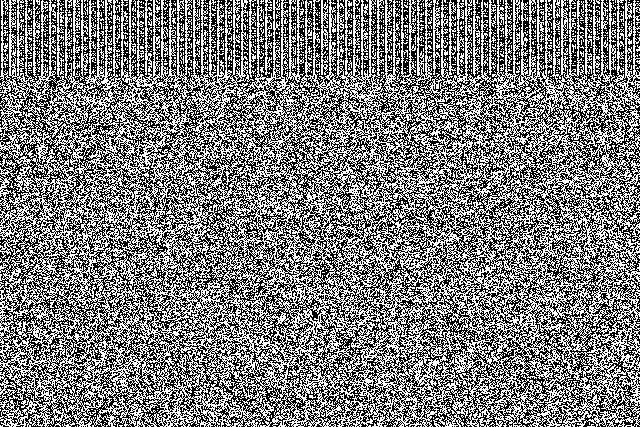
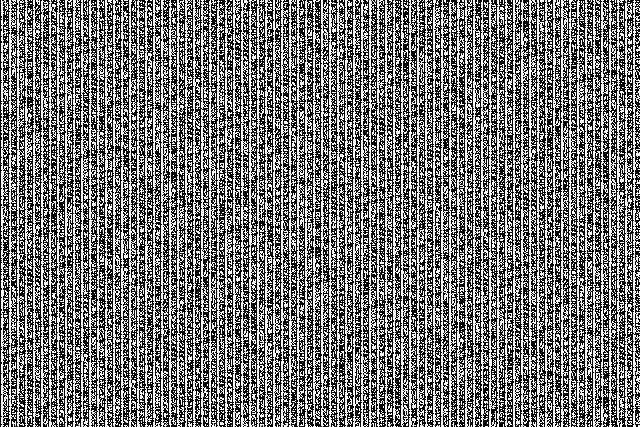
Steganalyse Histogramm Angriff

diff --git a/Steganalyse/encode.py b/Steganalyse/encode.py
@@ -18,13 +18,13 @@ def text_to_binary(text):
     return result
 
 
-img = Image.open("panther.jpg")
+img = Image.open("katze_gs.png")
 img = img.convert('L')
 width, height = img.size
 pixel_map = img.load()
-text = "Mailand oder Madrid, hauptsache Italien."
-#text = "Lorem ipsum dolor sit amet, consetetur sadipscing elitr, sed diam nonumy eirmod tempor invidunt ut labore et dolore magna aliquyam erat, sed diam voluptua. At vero eos et accusam et justo duo dolores et ea rebum. Stet clita kasd gubergren, no sea takimata sanctus est Lorem ipsum dolor sit amet. Lorem ipsum dolor sit amet, consetetur sadipscing elitr, sed diam nonumy eirmod tempor invidunt ut labore et dolore magna aliquyam erat, sed diam voluptua. At vero eos et accusam et justo duo dolores et ea rebum. Stet clita kasd gubergren, no sea takimata sanctus est Lorem ipsum dolor sit amet. Lorem ipsum dolor sit amet, consetetur sadipscing elitr, sed diam nonumy eirmod tempor invidunt ut labore et dolore magna aliquyam erat, sed diam voluptua. At vero eos et accusam et justo duo dolores et ea rebum. Stet clita kasd gubergren, no sea takimata sanctus est Lorem ipsum dolor sit amet. Duis autem vel eum iriure dolor in hendrerit in vulputate velit esse molestie consequat, vel illum dolore eu feugiat nulla facilisis at vero eros et accumsan et iusto odio dignissim qui blandit praesent luptatum zzril delenit augue duis dolore te feugait nulla facilisi. Lorem ipsum dolor sit amet, consectetuer adipiscing elit, sed diam nonummy nibh euismod tincidunt ut laoreet dolore magna aliquam erat volutpat. Ut wisi enim ad minim veniam, quis nostrud exerci tation ullamcorper suscipit lobortis nisl ut aliquip ex ea commodo consequat. Duis autem vel eum iriure dolor in hendrerit in vulputate velit esse molestie consequat, vel illum dolore eu feugiat nulla facilisis at vero eros et accumsan et iusto odio dignissim qui blandit praesent luptatum zzril delenit augue duis dolore te feugait nulla facilisi. Nam liber tempor cum soluta nobis eleifend option congue nihil imperdiet doming id quod mazim placerat facer possim assum. Lorem ipsum dolor sit amet, consectetuer adipiscing elit, sed diam nonummy nibh euismod tincidunt ut laoreet dolore magna aliquam erat volutpat. Ut wisi enim ad minim veniam, quis nostrud exerci tation ullamcorper suscipit lobortis nisl ut aliquip ex ea commodo consequat.   Duis autem vel eum iriure dolor in hendrerit in vulputte velit esse molestie consequat, vel illum dolore eu feugiat nulla facilisis. At vero eos et accusam et justo duo dolores et ea rebum. Stet clita kasd gubergren, no sea takimata sanctus est Lorem ipsum dolor sit amet. Lorem ipsum dolor sit amet, consetetur sadipscing elitr, sed diam nonumy eirmod tempor invidunt ut labore et dolore magna aliquyam erat, sed diam voluptua. At vero eos et accusam et justo duo dolores et ea rebum. Stet clita kasd gubergren, no sea takimata sanctus est Lorem ipsum dolor sit amet. Lorem ipsum dolor sit amet, consetetur sadipscing elitr, At accusam aliquyam diam diam dolore dolores duo eirmod eos erat, et nonumy sed tempor et et invidunt justo labore Stet clita ea et gubergren, kasd magna no rebum. sanctus sea sed takimata ut vero voluptua. est Lorem ipsum dolor sit amet. Lorem ipsum dolor sit amet, consetetur sadipscing elitr, sed diam nonumy eirmod tempor invidunt ut labore et dolore magna aliquyam erat. Consetetur sadipscing elitr, sed diam nonumy eirmod tempor invidunt ut labore et dolore magna aliquyam erat, sed diam voluptua. At vero eos et accusam et justo duo dolores et ea rebum. Stet clita kasd gubergren, no sea takimata sanctus est Lorem ipsum dolor sit amet. Lorem ipsum dolor sit amet, consetetur sadipscing elitr, sed diam nonumy eirmod tempor invidunt ut labore et dolore magna aliquyam erat, sed diam voluptua. At vero eos et accusam et justo duo dolores et ea rebum. Stet clita kasd gubergren, no sea takimata sanctus est Lorem ipsum dolor sit amet. Lorem ipsum dolor sit amet, consetetur sadipscing elitr, sed diam nonumy eirmod tempor invidunt ut labore et dolore magna aliquyam erat, sed diam voluptua. At vero eos et accusam et justo duo dolores et ea rebum. Stet clita kasd gubergren, no sea takimata sanctus. Lorem ipsum dolor sit amet, consetetur sadipscing elitr, sed diam nonumy eirmod tempor invidunt ut labore et dolore magna aliquyam erat, sed diam voluptua. At vero eos et accusam et justo duo dolores et ea rebum. Stet clita kasd gubergren, no sea takimata sanctus est Lorem ipsum dolor sit amet. Lorem ipsum dolor sit amet, consetetur sadipscing elitr, sed diam nonumy eirmod tempor invidunt ut labore et dolore magna aliquyam erat, sed diam voluptua. At vero eos et accusam et justo duo dolores et ea rebum. Stet clita kasd gubergren, no sea takimata sanctus est Lorem ipsum dolor sit amet. Lorem ipsum dolor sit amet, consetetur sadipscing elitr, sed diam nonumy eirmod tempor invidunt ut labore et dolore magna aliquyam erat, sed diam voluptua. At vero eos et accusam et justo duo dolores et ea rebum. Stet clita kasd gubergren, no sea takimata sanctus est Lorem ipsum dolor sit amet. Duis autem vel eum iriure dolor in hendrerit in vulputate velit esse molestie consequat, vel illum dolore eu feugiat nulla facilisis at vero eros et accumsan et iusto odio dignissim qui blandit praesent luptatum zzril delenit augue duis dolore te feugait nulla facilisi. Lorem ipsum dolor sit amet, consectetuer adipiscing elit, sed diam nonummy nibh euismod tincidunt ut laoreet dolore magna aliquam erat volutpat.Ut wisi enim ad minim veniam, quis nostrud exerci tation ullamcorper suscipit lobortis nisl ut aliquip ex ea commodo consequat. Duis autem vel eum iriure dolor in hendrerit in vulputate velit esse molestie consequat, vel illum dolore eu feugiat nulla facilisis at vero eros et accumsan et iusto odio dignissim qui blandit praesent luptatum zzril delenit augue duis dolore te feugait nulla facilisi. Nam liber tempor cum soluta nobis eleifend option congue nihil imperdiet doming id quod mazim placerat facer possim assum. Lorem ipsum dolor sit amet, consectetuer adipiscing elit, sed diam nonummy nibh euismod tincidunt ut laoreet dolore magna aliquam erat volutpat. Ut wisi enim ad minim veniam, quis nostrud exerci tation ullamcorper suscipit lobortis nisl ut aliquip ex ea commodo"
-
+#text = "Mailand oder Madrid, hauptsache Italien."
+text = "Lorem ipsum dolor sit amet, consetetur sadipscing elitr, sed diam nonumy eirmod tempor invidunt ut labore et dolore magna aliquyam erat, sed diam voluptua. At vero eos et accusam et justo duo dolores et ea rebum. Stet clita kasd gubergren, no sea takimata sanctus est Lorem ipsum dolor sit amet. Lorem ipsum dolor sit amet, consetetur sadipscing elitr, sed diam nonumy eirmod tempor invidunt ut labore et dolore magna aliquyam erat, sed diam voluptua. At vero eos et accusam et justo duo dolores et ea rebum. Stet clita kasd gubergren, no sea takimata sanctus est Lorem ipsum dolor sit amet. Lorem ipsum dolor sit amet, consetetur sadipscing elitr, sed diam nonumy eirmod tempor invidunt ut labore et dolore magna aliquyam erat, sed diam voluptua. At vero eos et accusam et justo duo dolores et ea rebum. Stet clita kasd gubergren, no sea takimata sanctus est Lorem ipsum dolor sit amet. Duis autem vel eum iriure dolor in hendrerit in vulputate velit esse molestie consequat, vel illum dolore eu feugiat nulla facilisis at vero eros et accumsan et iusto odio dignissim qui blandit praesent luptatum zzril delenit augue duis dolore te feugait nulla facilisi. Lorem ipsum dolor sit amet, consectetuer adipiscing elit, sed diam nonummy nibh euismod tincidunt ut laoreet dolore magna aliquam erat volutpat. Ut wisi enim ad minim veniam, quis nostrud exerci tation ullamcorper suscipit lobortis nisl ut aliquip ex ea commodo consequat. Duis autem vel eum iriure dolor in hendrerit in vulputate velit esse molestie consequat, vel illum dolore eu feugiat nulla facilisis at vero eros et accumsan et iusto odio dignissim qui blandit praesent luptatum zzril delenit augue duis dolore te feugait nulla facilisi. Nam liber tempor cum soluta nobis eleifend option congue nihil imperdiet doming id quod mazim placerat facer possim assum. Lorem ipsum dolor sit amet, consectetuer adipiscing elit, sed diam nonummy nibh euismod tincidunt ut laoreet dolore magna aliquam erat volutpat. Ut wisi enim ad minim veniam, quis nostrud exerci tation ullamcorper suscipit lobortis nisl ut aliquip ex ea commodo consequat.   Duis autem vel eum iriure dolor in hendrerit in vulputte velit esse molestie consequat, vel illum dolore eu feugiat nulla facilisis. At vero eos et accusam et justo duo dolores et ea rebum. Stet clita kasd gubergren, no sea takimata sanctus est Lorem ipsum dolor sit amet. Lorem ipsum dolor sit amet, consetetur sadipscing elitr, sed diam nonumy eirmod tempor invidunt ut labore et dolore magna aliquyam erat, sed diam voluptua. At vero eos et accusam et justo duo dolores et ea rebum. Stet clita kasd gubergren, no sea takimata sanctus est Lorem ipsum dolor sit amet. Lorem ipsum dolor sit amet, consetetur sadipscing elitr, At accusam aliquyam diam diam dolore dolores duo eirmod eos erat, et nonumy sed tempor et et invidunt justo labore Stet clita ea et gubergren, kasd magna no rebum. sanctus sea sed takimata ut vero voluptua. est Lorem ipsum dolor sit amet. Lorem ipsum dolor sit amet, consetetur sadipscing elitr, sed diam nonumy eirmod tempor invidunt ut labore et dolore magna aliquyam erat. Consetetur sadipscing elitr, sed diam nonumy eirmod tempor invidunt ut labore et dolore magna aliquyam erat, sed diam voluptua. At vero eos et accusam et justo duo dolores et ea rebum. Stet clita kasd gubergren, no sea takimata sanctus est Lorem ipsum dolor sit amet. Lorem ipsum dolor sit amet, consetetur sadipscing elitr, sed diam nonumy eirmod tempor invidunt ut labore et dolore magna aliquyam erat, sed diam voluptua. At vero eos et accusam et justo duo dolores et ea rebum. Stet clita kasd gubergren, no sea takimata sanctus est Lorem ipsum dolor sit amet. Lorem ipsum dolor sit amet, consetetur sadipscing elitr, sed diam nonumy eirmod tempor invidunt ut labore et dolore magna aliquyam erat, sed diam voluptua. At vero eos et accusam et justo duo dolores et ea rebum. Stet clita kasd gubergren, no sea takimata sanctus. Lorem ipsum dolor sit amet, consetetur sadipscing elitr, sed diam nonumy eirmod tempor invidunt ut labore et dolore magna aliquyam erat, sed diam voluptua. At vero eos et accusam et justo duo dolores et ea rebum. Stet clita kasd gubergren, no sea takimata sanctus est Lorem ipsum dolor sit amet. Lorem ipsum dolor sit amet, consetetur sadipscing elitr, sed diam nonumy eirmod tempor invidunt ut labore et dolore magna aliquyam erat, sed diam voluptua. At vero eos et accusam et justo duo dolores et ea rebum. Stet clita kasd gubergren, no sea takimata sanctus est Lorem ipsum dolor sit amet. Lorem ipsum dolor sit amet, consetetur sadipscing elitr, sed diam nonumy eirmod tempor invidunt ut labore et dolore magna aliquyam erat, sed diam voluptua. At vero eos et accusam et justo duo dolores et ea rebum. Stet clita kasd gubergren, no sea takimata sanctus est Lorem ipsum dolor sit amet. Duis autem vel eum iriure dolor in hendrerit in vulputate velit esse molestie consequat, vel illum dolore eu feugiat nulla facilisis at vero eros et accumsan et iusto odio dignissim qui blandit praesent luptatum zzril delenit augue duis dolore te feugait nulla facilisi. Lorem ipsum dolor sit amet, consectetuer adipiscing elit, sed diam nonummy nibh euismod tincidunt ut laoreet dolore magna aliquam erat volutpat.Ut wisi enim ad minim veniam, quis nostrud exerci tation ullamcorper suscipit lobortis nisl ut aliquip ex ea commodo consequat. Duis autem vel eum iriure dolor in hendrerit in vulputate velit esse molestie consequat, vel illum dolore eu feugiat nulla facilisis at vero eros et accumsan et iusto odio dignissim qui blandit praesent luptatum zzril delenit augue duis dolore te feugait nulla facilisi. Nam liber tempor cum soluta nobis eleifend option congue nihil imperdiet doming id quod mazim placerat facer possim assum. Lorem ipsum dolor sit amet, consectetuer adipiscing elit, sed diam nonummy nibh euismod tincidunt ut laoreet dolore magna aliquam erat volutpat. Ut wisi enim ad minim veniam, quis nostrud exerci tation ullamcorper suscipit lobortis nisl ut aliquip ex ea commodo"
+text = 6 *  text
 # ascii_list = text_to_ascii(text)
 binary_list = text_to_binary(text)
 
@@ -44,4 +44,4 @@ for y in range(height):
         else:
             encoded_img.putpixel((x, y), pixel)
 
-encoded_img.save("panther_encoded.png", "PNG", quality=100, optimize=False)
+encoded_img.save("katze_encoded.png", "PNG", quality=100, optimize=False)

diff --git a/Steganalyse/Steganalyse_HistogrammAngriff.py b/Steganalyse/Steganalyse_HistogrammAngriff.py
@@ -1,0 +1,30 @@
+from PIL import Image
+import matplotlib.pyplot as plot
+
+
+img = Image.open("katze_gs.png")
+img = img.convert('L')
+width, height = img.size
+pixel_map = img.load()
+
+encoded_img = Image.new(img.mode, img.size)
+X = []
+Y = []
+for pixel_value in range(256):
+    count = 0
+    for y in range(height):
+        for x in range(width):
+            if pixel_map[x, y] == pixel_value:
+                count += 1
+    X.append(pixel_value)
+    Y.append(count)
+plot.plot(X,Y)
+plot.xlabel("Pixelwert")
+plot.ylabel("Anzahl Pixel")
+plot.savefig('histogramm.png',dpi = 100);
+plot.show()
+
+
+
+
+

diff --git a/Steganalyse/decode.py b/Steganalyse/decode.py
@@ -32,7 +32,7 @@ def ascii_list_to_text(array):
     return result
 
 
-img = Image.open("panther_encoded.png")
+img = Image.open("anime_encoded.png")
 width, height = img.size
 pixel_map = img.load()
 
